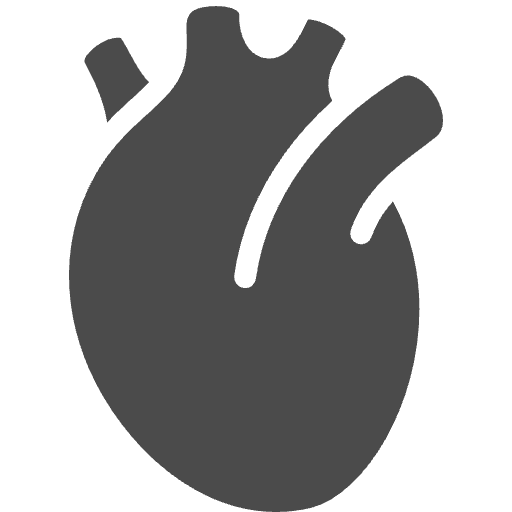
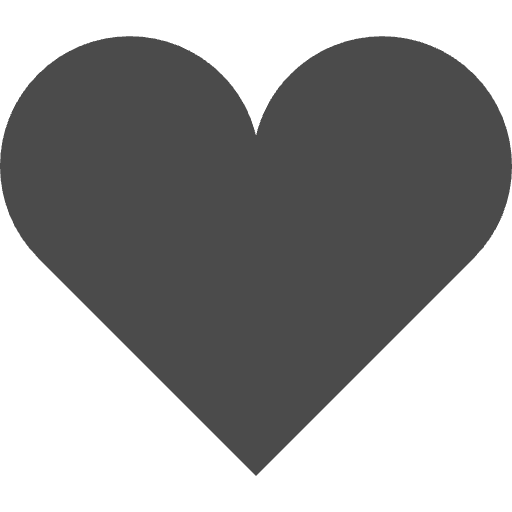
up

diff --git a/study-2/script.js b/study-2/script.js
@@ -35,14 +35,14 @@ class WebGLApp {
     this.previousTime = 0;
     this.timeScale = 0.0;
     this.uTime = 0.0;
-    this.uRatio = 0.5;
-    this.uPointSize = 25.0;   // ポイントサイズ
-    this.uThreshold = 0.85;    // マスクの閾値
-    this.uGap = 0.0;          // ギャップ（0.0〜1.0）
-    this.gridSize = 24;       // グリッドの解像度
-    this.mousePos = [0.0, 0.0]; // マウス位置（-1〜1）
-    this.uHoverRadius = 0.3;    // ホバー影響範囲
-    this.uHoverStrength = 0.5;  // ホバーの強さ（Z方向）
+    this.uRatio = 0.7;
+    this.uPointSize = 23;
+    this.uThreshold = 0.1;
+    this.uGap = 0.15;
+    this.gridSize =32;
+    this.mousePos = [0.0, 0.0];
+    this.uHoverRadius = 0.6;
+    this.uHoverStrength = 1.0;
 
     // 動画要素用
     this.video0 = null;
@@ -240,8 +240,8 @@ class WebGLApp {
     });
 
     // 動画を読み込む
-    this.video0 = await this.createVideo('./14790539_1080_1920_24fps.mp4');
-    this.video1 = await this.createVideo('./2324293-hd_1280_720_25fps.mp4');
+    this.video0 = await this.createVideo('./2324293-hd_1280_720_25fps.mp4');
+    this.video1 = await this.createVideo('./14790539_1080_1920_24fps.mp4');
     
     // 動画用テクスチャを作成
     this.texture0 = this.createTextureFromVideo(this.video0);
@@ -314,21 +314,21 @@ class WebGLApp {
     const texCoords = [];
     
     const size = this.gridSize;
+    const cellSize = 1.0 / size;
     
     // グリッド状に頂点を配置
-    for (let y = 0; y < size; y++) {
-      for (let x = 0; x < size; x++) {
-        // 位置（-1 ~ 1 の範囲）
-        const px = (x / (size - 1)) * 2.0 - 1.0;
-        const py = (y / (size - 1)) * 2.0 - 1.0;
-        const pz = 0.0;
+    for (let row = 0; row < size; row++) {
+      for (let col = 0; col < size; col++) {
+        // セルの左上角のUV座標
+        const u = col * cellSize;
+        const v = row * cellSize;
         
-        positions.push(px, py, pz);
+        // セルの中心位置を -1 ~ 1 に変換
+        const cx = (u + cellSize * 0.5) * 2.0 - 1.0;
+        const cy = -((v + cellSize * 0.5) * 2.0 - 1.0); // Y反転
         
-        // テクスチャ座標（0 ~ 1 の範囲）
-        const u = x / (size - 1);
-        const v = 1.0 - y / (size - 1); // Y反転
-        
+        positions.push(cx, cy, 0.0);
+        // UV座標はセルの左上角を渡す
         texCoords.push(u, v);
       }
     }
